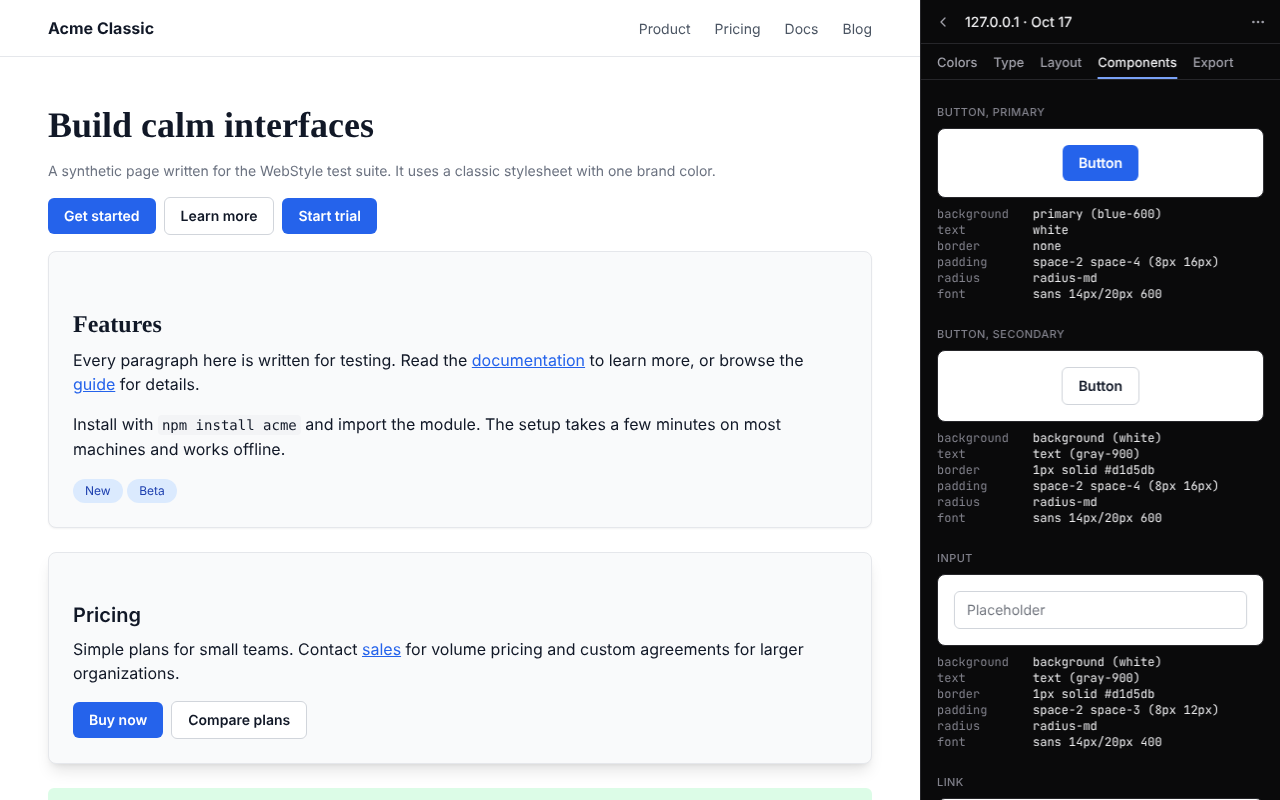
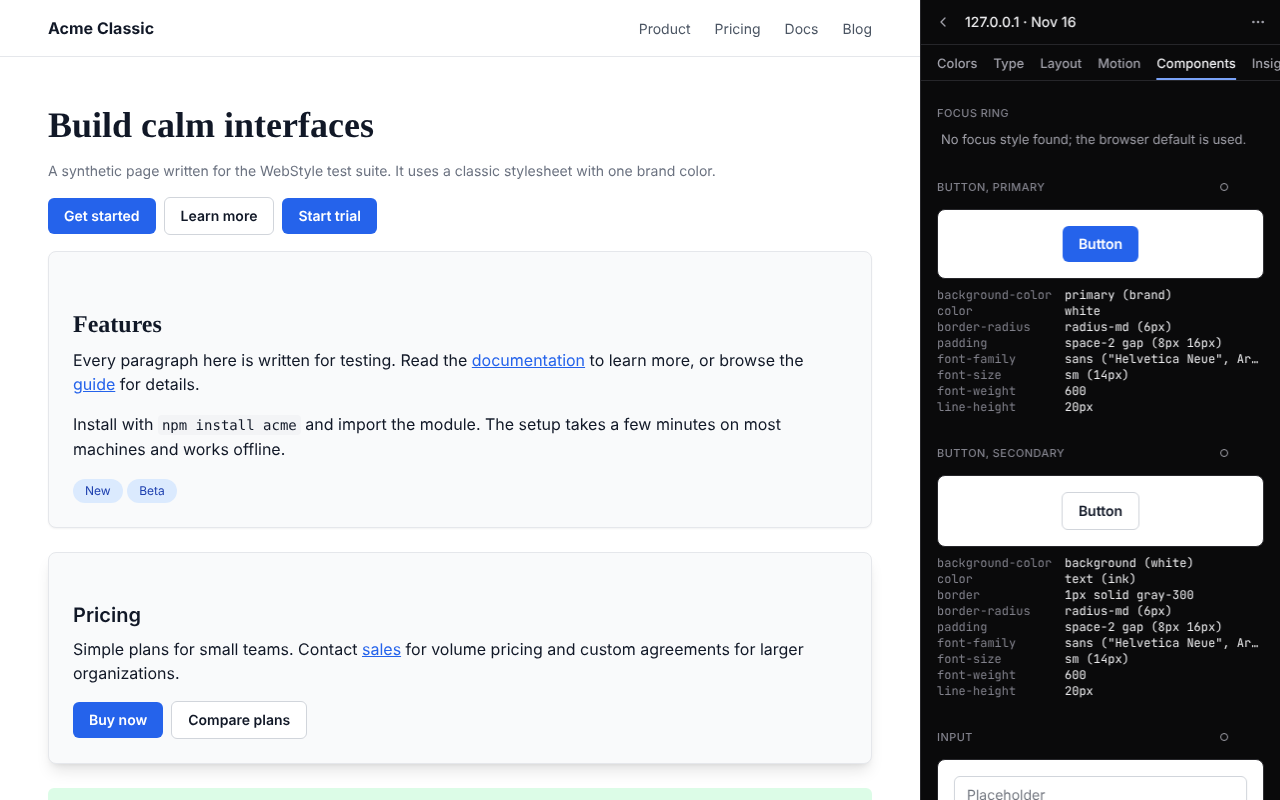
docs: Chrome Web Store assets for v2, a privacy policy, and v2 store screenshots
Updates the screenshot script for v2 (brand token, Insights tab, dark
panel theme, five store shots), regenerates the store and README
images, adds PRIVACY.md for the store's privacy policy URL, and drops
the npm sentence from the listing until the CLI is published.

Changed region(s): [[0.7188, 0.125, 1.0, 1.0], [0.7812, 0.0, 1.0, 0.125], [0.7188, 0.0625, 0.75, 0.0938]]

diff --git a/scripts/screenshots.js b/scripts/screenshots.js
@@ -14,18 +14,26 @@ const { context, worker, extensionId } = await launch();
 try {
   const { page, tabId } = await openFixture(context, worker, 'classic.html');
   const panel = await openPanel(context, extensionId, tabId);
+  // The store and README show the panel's dark theme, its default look on most machines.
+  await panel.evaluate(() => chrome.storage.local.set({ settings: { panelTheme: 'dark' } }));
+  await panel.reload();
+  await panel.waitForSelector('[data-screen]');
   await panel.setViewportSize({ width: 360, height: 800 });
   await panel.screenshot({ path: `${images}home.png` });
   await panel.getByRole('button', { name: 'Extract design system' }).click();
   await panel.waitForSelector('[data-screen=results]');
-  await panel.getByRole('button', { name: 'Show blue-600' }).click();
+  // v2 names the classic fixture's blue from its own --brand variable.
+  await panel.getByRole('button', { name: 'Show brand' }).click();
   const shots = [
     ['colors', 'Colors'],
     ['type', 'Type'],
     ['layout', 'Layout'],
     ['components', 'Components'],
+    ['insights', 'Insights'],
     ['export', 'Export'],
   ];
+  // The Chrome Web Store takes at most five screenshots.
+  const storeShots = shots.filter(([file]) => file !== 'type');
   await page.setViewportSize({ width: 920, height: 800 });
   for (const [file, tab] of shots) {
     await panel.getByRole('tab', { name: tab }).click();
@@ -36,7 +44,7 @@ try {
   // Store screenshots: page on the left, panel on the right, like Chrome shows them.
   const composer = await context.newPage();
   await composer.setViewportSize({ width: 1280, height: 800 });
-  for (const [file, tab] of shots) {
+  for (const [file, tab] of storeShots) {
     await panel.getByRole('tab', { name: tab }).click();
     const pageShot = (await page.screenshot()).toString('base64');
     const panelShot = (await panel.screenshot()).toString('base64');

diff --git a/PRIVACY.md b/PRIVACY.md
@@ -1,0 +1,31 @@
+# Privacy policy
+
+WebStyle Extractor for AI Agents (the browser extension) does not collect, transmit, sell or share any personal or user data.
+
+## What the extension reads
+
+When you click its toolbar icon or press its shortcut on a tab (or on a site you have allowed in Settings), the extension reads the page's computed styles, stylesheet rules, class names, ARIA attributes and font names. It never reads page text, form values, cookies, browsing history or network traffic.
+
+If you turn on **Advanced capture**, the extension uses Chrome's debugger, only while that capture runs, to read stylesheet text and to emulate the other color theme, hover and focus states and other screen widths. It detaches as soon as the capture ends.
+
+If you turn on **Include screenshots**, it saves small images of the components on that page.
+
+## Where your data goes
+
+Nowhere. The extension makes no network requests: no analytics, no telemetry, no error reporting, no remote code and no calls to any AI service. Its content security policy blocks outgoing connections.
+
+Snapshots, screenshots and settings are stored only in your browser (IndexedDB and extension storage). You can delete any snapshot, or all of them, from History, and removing the extension deletes everything. Files leave the browser only when you download them or write them to a project folder you chose.
+
+## Permissions
+
+- `activeTab`, `scripting`: read the tab you invoked the extension on.
+- `sidePanel`: show the extension's panel.
+- `storage`: keep your settings on this computer.
+- `debugger` (optional, asked only when you turn on Advanced capture).
+- Site access (optional, asked one site at a time when you click "Allow on this site"; listed and removable in Settings).
+
+## Contact
+
+Open an issue at https://github.com/ankitmaurya-16/webstyle-extractor-for-ai-agents/issues.
+
+Last updated: 2026-11-16.

diff --git a/docs/store-listing.md b/docs/store-listing.md
@@ -2,6 +2,13 @@
 
 Text and assets for the Chrome Web Store, Microsoft Edge Add-ons and addons.mozilla.org. Screenshots (1280 x 800) are in `store/` and are regenerated with `node scripts/screenshots.js`; take them in both panel themes for v2. The 128 px icon is `public/icon/128.png`. Build the uploads with `pnpm zip` (Chrome and Edge) and `pnpm zip:firefox` (Firefox); the files land in `.output/`. The name and short description in the manifest come from `public/_locales/en/messages.json` (`extName`, `extDescription`).
 
+## Assets
+
+- Screenshots (1280 x 800, at most five): `store/screenshot-colors.png`, `screenshot-components.png`, `screenshot-insights.png`, `screenshot-layout.png`, `screenshot-export.png`. Regenerate with `WXT_E2E=1 pnpm wxt build && node scripts/screenshots.js`.
+- Store icon: `public/icon/128.png`.
+- Privacy policy URL: the `PRIVACY.md` file on GitHub (https://github.com/ankitmaurya-16/webstyle-extractor-for-ai-agents/blob/main/PRIVACY.md).
+- Add the CLI sentence to the description only once `webstyle-extractor` is published on npm: "A command-line version for AI agents is on npm as webstyle-extractor."
+
 ## Name
 
 WebStyle Extractor for AI Agents
@@ -41,7 +48,7 @@ Optional Advanced capture uses Chrome's debugger, only when you turn it on, to r
 
 Private by design: the extension makes no network requests, has no analytics and calls no AI service. It only reads a tab after you click its icon or press its shortcut there (or after you allow a site), reads computed styles and class names rather than page content, and keeps everything in your browser. Light and dark panel themes.
 
-Free and open source under the MIT license. A command-line version for AI agents is on npm as webstyle-extractor.
+Free and open source under the MIT license.
 
 ## Privacy practices
 
